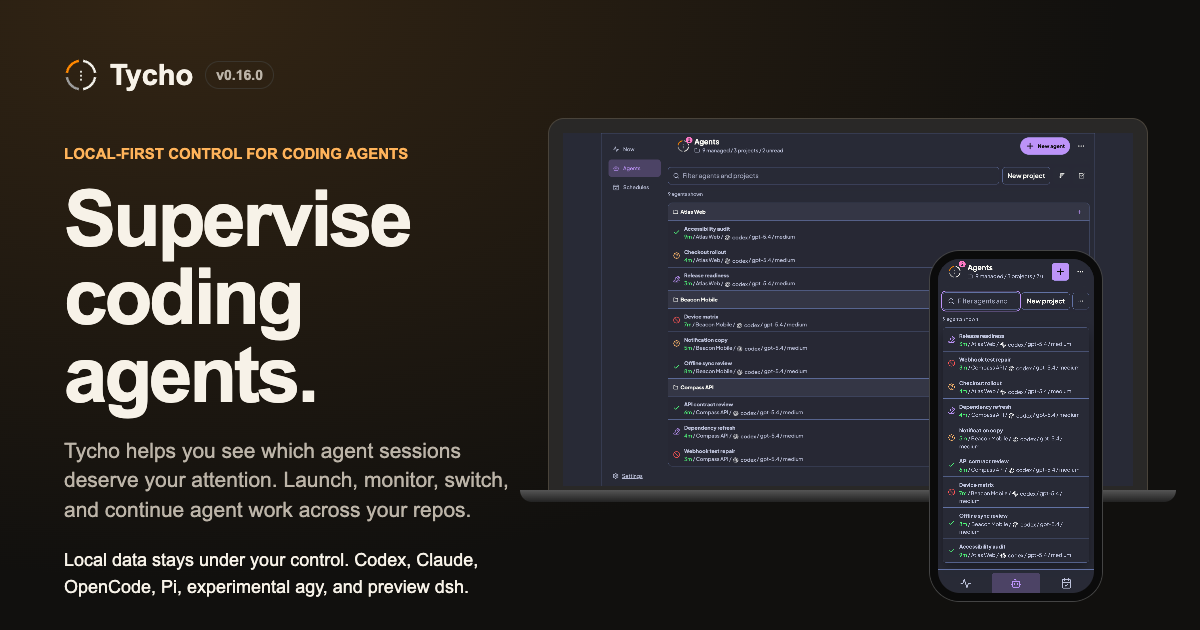
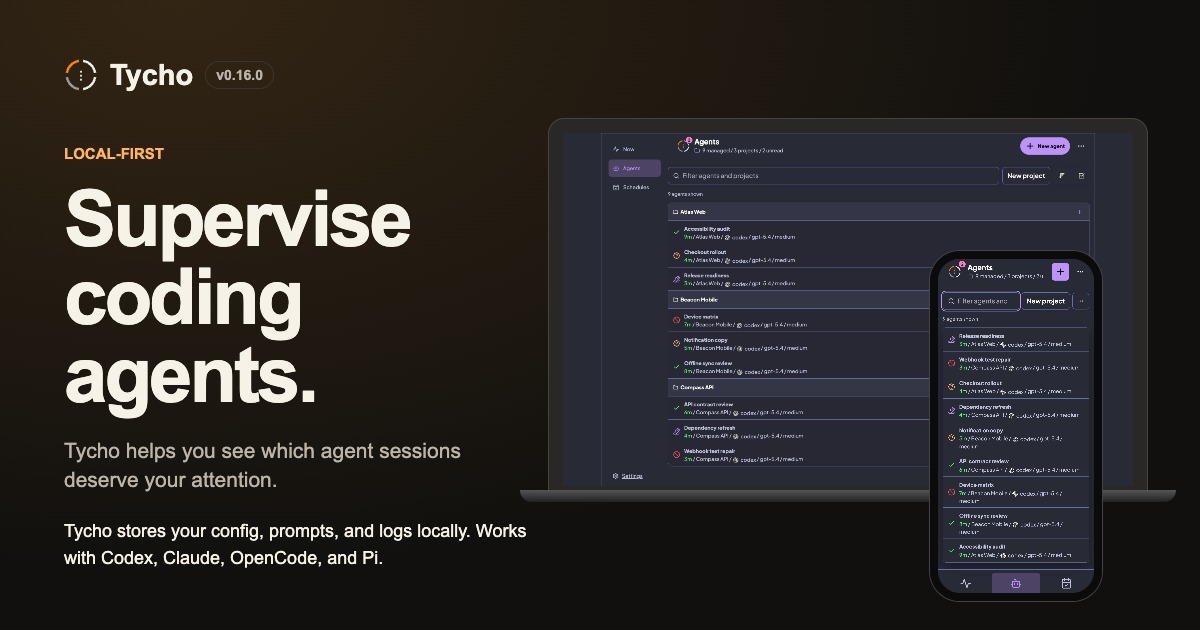
Shorten homepage copy and add accessible install tabs

Changed region(s): [[0.0308, 0.754, 0.4317, 0.9651], [0.1233, 0.2111, 0.3392, 0.2714]]

diff --git a/src/styles/site.css b/src/styles/site.css
@@ -540,14 +540,14 @@ h1 {
 	line-height: 1.65;
 }
 .installation a { color: var(--accent-soft); text-decoration: underline; text-underline-offset: 3px; }
-.install-step-heading { display: flex; gap: 12px; align-items: baseline; }
-.install-step-heading > span { color: var(--accent-soft); font-size: 13px; font-weight: 800; }
-.install-step-heading h3 { margin: 0; font-size: 23px; line-height: 1.3; }
-.install-publication { padding: 16px 18px; border-left: 3px solid var(--accent); background: rgba(255,135,0,.06); }
-.platform-grid { display: grid; grid-template-columns: repeat(3, minmax(0, 1fr)); gap: 18px; margin-top: 24px; }
-.platform-card { min-width: 0; padding: 24px; border: 1px solid var(--line); border-radius: 12px; background: var(--panel); }
-.platform-card h4 { margin: 0; font-size: 23px; }
-.platform-card p { font-size: 15px; }
+tycho-install-tabs { display: block; margin-top: 24px; }
+.install-tabs { display: flex; gap: 6px; padding: 6px; border: 1px solid var(--line); border-radius: 10px 10px 0 0; background: var(--panel); }
+.install-tabs button { flex: 1; min-width: 0; min-height: 46px; padding: 10px; border: 1px solid transparent; border-radius: 6px; background: transparent; color: var(--muted); font: inherit; font-weight: 650; cursor: pointer; }
+.install-tabs button:hover { color: var(--text); }
+.install-tabs button[aria-selected='true'] { border-color: var(--accent); background: rgba(255,135,0,.12); color: var(--text); }
+.install-tabs button:focus-visible, .install-panel:focus-visible { outline: 3px solid var(--accent-soft); outline-offset: 3px; }
+.install-panel { padding: 12px 24px; border: 1px solid var(--line); border-top: 0; border-radius: 0 0 10px 10px; }
+.install-panel[hidden] { display: none; }
 .command-block { min-width: 0; margin: 20px 0; border: 1px solid var(--line); border-radius: 8px; background: #0b0a09; }
 .command-toolbar { display: flex; align-items: center; justify-content: space-between; gap: 12px; padding: 10px 12px; border-bottom: 1px solid var(--line); font-size: 12px; color: var(--muted); }
 .command-toolbar button { padding: 6px 10px; border: 1px solid var(--line); border-radius: 5px; background: var(--panel); color: var(--text); font: inherit; cursor: pointer; }
@@ -559,9 +559,10 @@ h1 {
 .install-note { font-size: 14px; }
 .first-run-grid { display: grid; grid-template-columns: minmax(0, .7fr) minmax(0, 1.3fr); gap: 48px; margin-top: 46px; }
 .first-run-grid > article { min-width: 0; }
+.first-run-grid h3 { margin: 0; font-size: 23px; line-height: 1.3; }
 .first-run-grid ol { padding-left: 22px; }
 .first-run-grid li + li { margin-top: 12px; }
-@media (max-width: 900px) { .platform-grid { grid-template-columns: 1fr; } .first-run-grid { grid-template-columns: 1fr; gap: 28px; } }
-@media (max-width: 620px) { .installation { padding: 48px 0; } .platform-card { padding: 18px; } }
+@media (max-width: 900px) { .first-run-grid { grid-template-columns: 1fr; gap: 28px; } }
+@media (max-width: 620px) { .installation { padding: 48px 0; } .install-panel { padding: 10px 16px; } }
 .installation .eyebrow { color: var(--accent-soft); }
 .command-block pre { white-space: pre-wrap; overflow-wrap: anywhere; }

diff --git a/docs/audits/v0.16.0/og.html b/docs/audits/v0.16.0/og.html
@@ -1,3 +1,3 @@
 <!doctype html><html><meta charset="utf-8"><style>
 *{box-sizing:border-box}body{margin:0;background:radial-gradient(ellipse at 15% 0, #332514,transparent 65%),#11100e;color:#f7f2e8;font-family:Arial,sans-serif;width:1200px;height:630px;overflow:hidden}.brand{position:absolute;top:58px;left:64px;display:flex;align-items:center;gap:12px;font-size:29px;font-weight:700}.brand img{width:34px}.badge{font-size:14px;border:1px solid #3a352d;border-radius:18px;padding:5px 10px;color:#bcb4a8}.copy{position:absolute;left:64px;top:145px;width:466px}.eyebrow{font-size:15px;color:#ffb35a;font-weight:700}h1{font-size:78px;line-height:1;letter-spacing:-3px;margin:18px 0 22px}p{font-size:21px;line-height:1.4;margin:0;color:#bcb4a8}.proof{font-size:18px;color:#f7f2e8;margin-top:23px;line-height:1.5}.laptop{position:absolute;top:118px;left:548px;width:600px;height:383px;border:1px solid #49433a;border-radius:16px 16px 7px 7px;padding:14px;background:#292827}.laptop img{width:100%;height:100%;object-fit:cover;object-position:top}.base{position:absolute;top:490px;left:520px;width:656px;height:12px;background:linear-gradient(#555,#222);border-radius:0 0 16px 16px}.phone{position:absolute;top:251px;left:930px;width:172px;height:350px;border:8px solid #0b0b0b;border-radius:30px;overflow:hidden;box-shadow:0 0 0 1px #444}.phone img{width:100%;height:100%;object-fit:cover;object-position:top}
-</style><div class="brand"><img src="http://127.0.0.1:4322/assets/tycho-logo-only.svg">Tycho <span class="badge">v0.16.0</span></div><div class="copy"><div class="eyebrow">LOCAL-FIRST CONTROL FOR CODING AGENTS</div><h1>Supervise<br>coding<br>agents.</h1><p>Tycho helps you see which agent sessions deserve your attention. Launch, monitor, switch, and continue agent work across your repos.</p><p class="proof">Local data stays under your control. Codex, Claude, OpenCode, Pi, experimental agy, and preview dsh.</p></div><div class="laptop"><img src="http://127.0.0.1:4322/assets/quickstart-watch-v0.16.0.png"></div><div class="base"></div><div class="phone"><img src="http://127.0.0.1:4322/assets/remote-mobile-agents-v0.16.0.png"></div></html>
+</style><div class="brand"><img src="http://127.0.0.1:4322/assets/tycho-logo-only.svg">Tycho <span class="badge">v0.16.0</span></div><div class="copy"><div class="eyebrow">LOCAL-FIRST</div><h1>Supervise<br>coding<br>agents.</h1><p>Tycho helps you see which agent sessions deserve your attention.</p><p class="proof">Tycho stores your config, prompts, and logs locally. Works with Codex, Claude, OpenCode, and Pi.</p></div><div class="laptop"><img src="http://127.0.0.1:4322/assets/quickstart-watch-v0.16.0.png"></div><div class="base"></div><div class="phone"><img src="http://127.0.0.1:4322/assets/remote-mobile-agents-v0.16.0.png"></div></html>

diff --git a/docs/audits/2026-11-15-v0.16.0.md b/docs/audits/2026-11-15-v0.16.0.md
@@ -66,7 +66,7 @@ The following table inventories every image now in public, including identity fi
[5 lines of base64/hex data omitted]
 
 ## Capture procedure and limits
 
@@ -143,3 +143,25 @@ Native upload completed with seven images. Each durable URL returned HTTP 200 wi
[3 lines of base64/hex data omitted]
+
+## Homepage copy and platform-tab rework
+
+The operator requested the unslop skill for shorter homepage copy and accessible platform tabs on the same PR 19 and card 884. Card 884 moved to In Progress. The GitHub ready flag and approved history were preserved under the checklist continuation rule. Previous-head checks and screenshots are historical and do not attest to the rework.
+
+The hero keeps the exact supervision promise and supporting sentence. Repeated launch/monitor wording and setup explanations were removed. macOS, Linux, and Windows WSL2 tabs show one corresponding panel. Essential harness authentication, Tahoe Apple Silicon/Linux x86_64 bottle targets, source links for other targets, localhost browser startup, version/upgrade checks, and the built-in Welcome Sandbox flow remain. Command continuations keep flags readable on phones. The social preview uses the shorter hero copy.
+
+Chrome 157.0.8103.52 passed desktop 1440×1000 and mobile 390×844 mouse selection, ArrowLeft/Right with wrap, Home/End, Enter/Space, Tab into the active panel, Shift+Tab back, selected styling, ARIA tab/panel relationships, and exactly one visible panel. All three platform commands and the first-agent prompt copied byte-for-byte; clipboard-denied feedback, text fit, page errors, and horizontal-overflow checks passed. All 11 public routes passed the existing browser suite. The committed installation-browser driver now checks tabs instead of cards.
+
+The product commands and Welcome flow are unchanged. Existing exact-release isolated first-agent/auth/serve evidence remains applicable. Product screenshot files retain their exact-tag synthetic provenance and hashes. The 1200×630 social preview was rendered again from the updated saved composition. No product source, deployment automation, lockfile, or live server changed.
+
+Five affected native images were replaced through authenticated gh CLI uploads. The two unchanged getting-started guide images were retained at their accepted native URLs. All seven native images rendered in the actual public PR description. Their downloaded bytes and dimensions match the accepted PNGs. Durable asset URL checks use authenticated gh; GitHub's public PR rendering supplies signed image delivery URLs. Signed delivery URLs are not stored as durable references. Temporary review copies are removed only after acceptance. New exact-head full CI/signoff and fresh independent review are required by the local site checklist before returning this rework to operator review.
+
+| Current native evidence | Durable URL | SHA-256 |
+| --- | --- | --- |
[7 lines of base64/hex data omitted]
